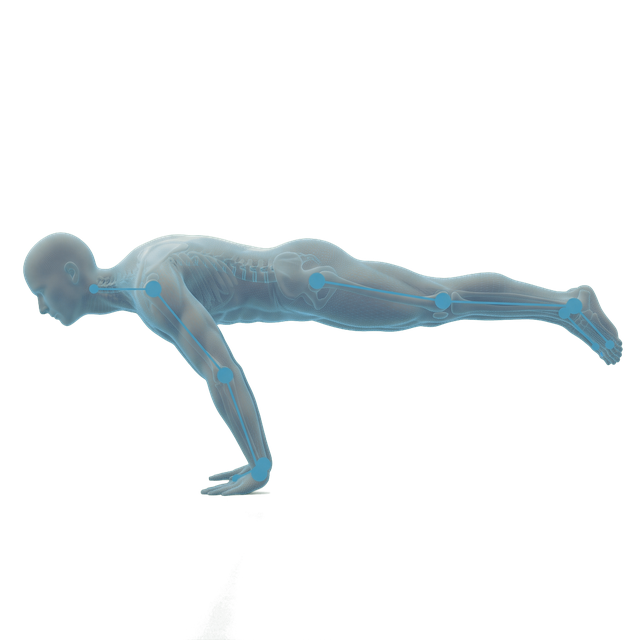
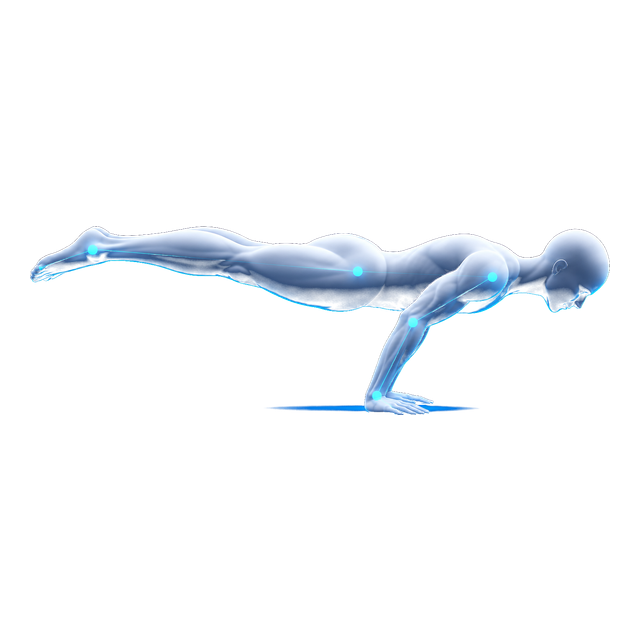
Remplace l illustration de la planche et fiabilise le detourage
Nouvelle illustration de la full planche, qui sert la tuile Planche et la
variante Full.

Son reflet au sol touche les mains : le decoupage en bandes ne pouvait pas
l ecarter, faute de vide entre les deux. Ajout d une porte sur le canal
rouge, nul dans le decor et superieur a 120 sur le corps. Cette porte
creusait les points d articulation, eux aussi cyan, d ou une exception pour
les pixels tres lumineux. Le front lever est regenere avec les memes
criteres.

Changed region(s): [[0.0312, 0.3438, 0.9688, 0.7812]]

diff --git a/CLAUDE.md b/CLAUDE.md
@@ -165,9 +165,20 @@ déposer.** Les visuels arrivent sur fond noir alors que l'application les
 affiche en `object-contain` sur une carte ardoise avec un halo cyan quand la
 figure est sélectionnée : un fond opaque produirait un rectangle noir et un
 halo carré. `scripts/import-figure-image.mjs` détoure le sujet, retire le
-reflet au sol quand il est détaché du corps, et normalise au format des
-images en place (640x640 RGBA, sujet sur 580 px, centré). Toute nouvelle
-illustration doit passer par lui plutôt que d'être copiée à la main.
+décor et normalise au format des images en place (640x640 RGBA, sujet sur
+580 px, centré). Toute nouvelle illustration doit passer par lui plutôt que
+d'être copiée à la main.
+
+Le détourage combine trois critères, chacun ajouté parce qu'une illustration
+mettait le précédent en défaut : la luminance sépare le sujet du fond, un
+découpage en bandes écarte un reflet au sol détaché du corps, et une porte
+sur le canal rouge écarte celui qui touche les mains, le décor étant d'un
+bleu sans rouge là où le corps monte au dessus de 120. Cette dernière porte
+creusait les points d'articulation, eux aussi cyan, d'où une exception pour
+les pixels très lumineux. Il reste un chevauchement irréductible entre le
+cœur du reflet au sol et les points les plus ternes, qui laisse un fin trait
+sous les mains : invisible à la taille d'affichage, il se lit comme une
+ombre.
 
 **Rôle admin en base, pas en dur.** Le drapeau `is_admin` vit sur
 `profiles`, ce qui évite de coder une adresse e-mail dans le dépôt et
